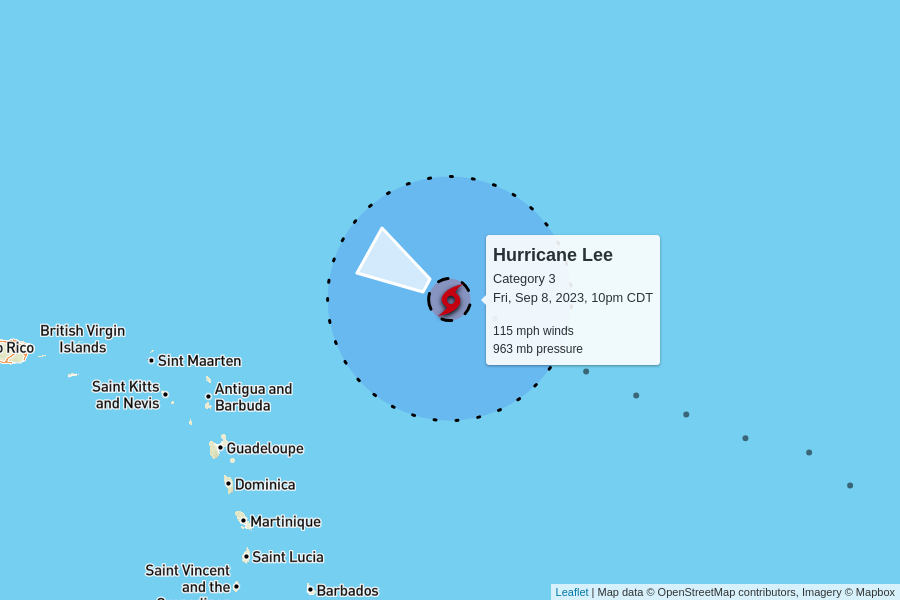
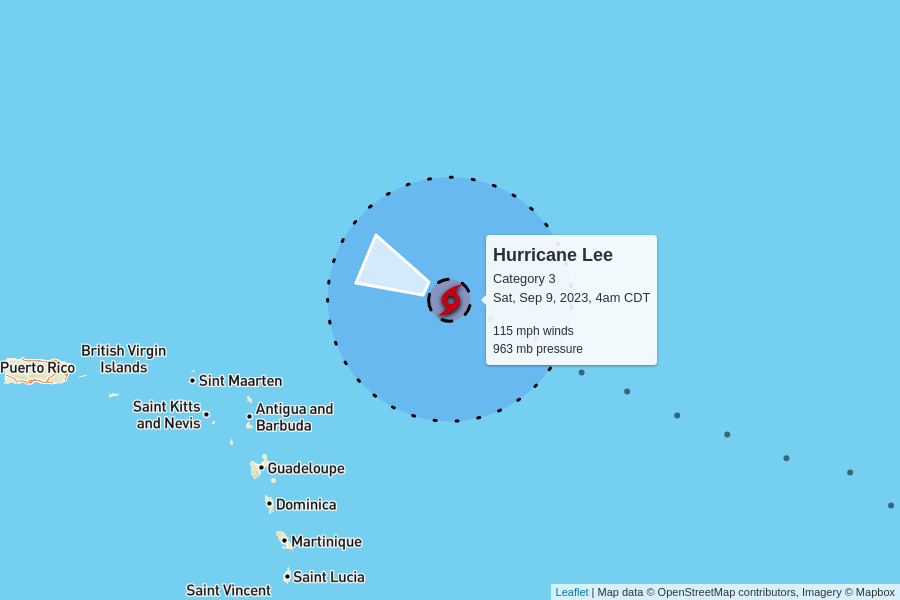
automatic update

diff --git a/docs/index.html b/docs/index.html
@@ -104,7 +104,7 @@
         <td colspan="6" class="storm category-3" >
           <h2>
             Hurricane Lee - Category 3
-            <p class="updated">last updated <span data-time>2023-09-09T03:00:00.000Z</span></p>
+            <p class="updated">last updated <span data-time>2023-09-09T09:00:00.000Z</span></p>
           </h2>
         </td>
       </tr>
@@ -119,12 +119,12 @@
       </tr>
       <tr>
         <td class="spacer"></td>
-        <td>115 mph<br>-35 mph since last update</td>
-        <td>963 mb<br>+21 mb since last update</td>
+        <td>115 mph<br>0 mph since last update</td>
+        <td>963 mb<br>0 mb since last update</td>
         <td>
-          13 mph to the west-northwest
+          12 mph to the west-northwest
           <br/>
-          <span style="display: inline-block; font-size: 1.5em; transform: rotate(300deg);">↑</span>
+          <span style="display: inline-block; font-size: 1.5em; transform: rotate(295deg);">↑</span>
         </td>
         <td><a href="https://raw.githubusercontent.com/mgwalker/atlantic-hurricanes/main/data/csv/AL132023.csv">AL132023.csv</a></td>
         <td><a href="https://www.nhc.noaa.gov/archive/2023/LEE.shtml?">NHC advisories</a></td>
@@ -148,7 +148,7 @@
         <td colspan="6" class="storm category-0" >
           <h2>
             Tropical Storm Margot
-            <p class="updated">last updated <span data-time>2023-09-09T03:00:00.000Z</span></p>
+            <p class="updated">last updated <span data-time>2023-09-09T09:00:00.000Z</span></p>
           </h2>
         </td>
       </tr>
@@ -163,12 +163,12 @@
       </tr>
       <tr>
         <td class="spacer"></td>
-        <td>40 mph<br>0 mph since last update</td>
-        <td>1005 mb<br>0 mb since last update</td>
+        <td>45 mph<br>+5 mph since last update</td>
+        <td>1004 mb<br>-1 mb since last update</td>
         <td>
-          17 mph to the west-northwest
+          13 mph to the west-northwest
           <br/>
-          <span style="display: inline-block; font-size: 1.5em; transform: rotate(300deg);">↑</span>
+          <span style="display: inline-block; font-size: 1.5em; transform: rotate(295deg);">↑</span>
         </td>
         <td><a href="https://raw.githubusercontent.com/mgwalker/atlantic-hurricanes/main/data/csv/AL142023.csv">AL142023.csv</a></td>
         <td><a href="https://www.nhc.noaa.gov/archive/2023/MARGOT.shtml?">NHC advisories</a></td>
